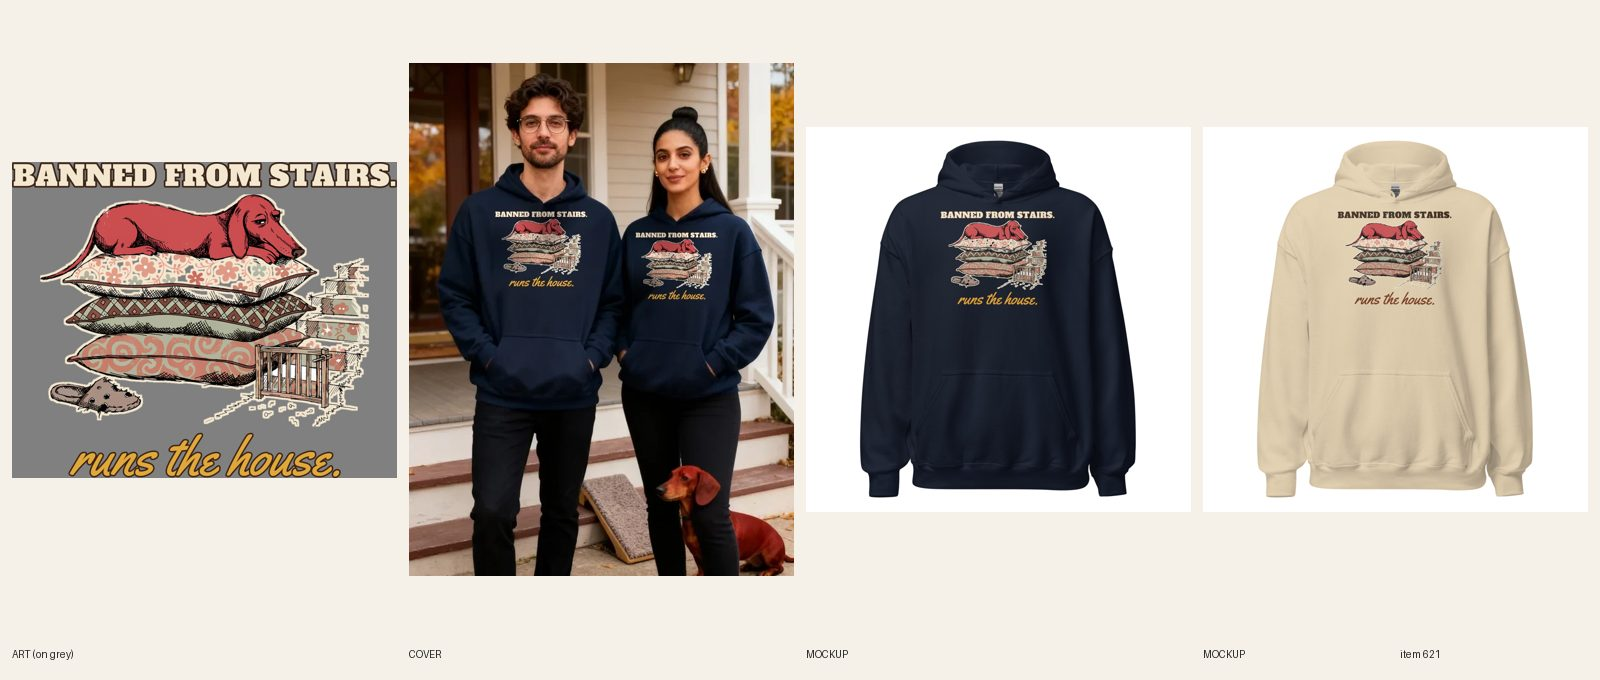
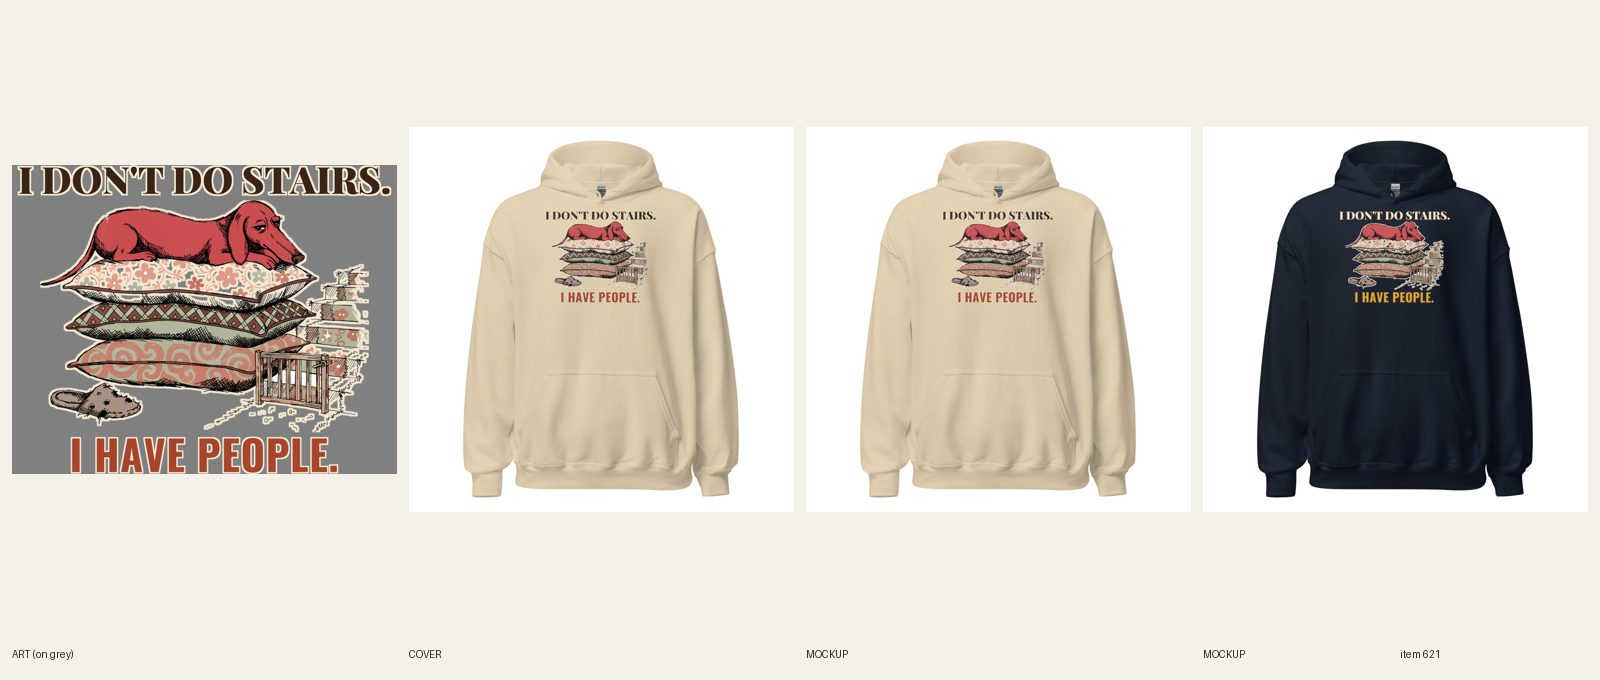
[C] review 621 (redo)
Claude-Session: https://claude.ai/code/session_01CCHcDj8LcJJ8qUPtKE3cvn

diff --git a/designs/c621/make.py b/designs/c621/make.py
@@ -1,0 +1,36 @@
+from PIL import Image, ImageDraw, ImageFont, ImageFilter
+FD='designs/fonts/'
+RED=(196,52,44,255); BROWN=(59,42,29,255); RUST=(168,69,44,255); MUST=(232,168,46,255); CREAM=(246,236,214,255); BROWN=(58,36,24,255)
+def line(text,font,wfrac,W,fill,key,kw=31,track=0,var=None):
+    def mk(sz):
+        f=ImageFont.truetype(FD+font,sz)
+        if var: f.set_variation_by_axes(var)
+        return f
+    f=mk(800); adv=[f.getlength(c) for c in text]
+    tot=sum(adv)+track*(len(text)-1); size=int(800*W*wfrac/tot)
+    f=mk(size); adv=[f.getlength(c) for c in text]; tr=int(track*size/800)
+    asc,desc=f.getmetrics(); tot=int(sum(adv)+tr*(len(text)-1))
+    pad=80; im=Image.new('RGBA',(tot+2*pad,asc+desc+2*pad),(0,0,0,0))
+    def draw(layer,col):
+        d=ImageDraw.Draw(layer); x=pad
+        for c,a in zip(text,adv): d.text((x,pad),c,font=f,fill=col); x+=a+tr
+    k=Image.new('L',im.size,0); d=ImageDraw.Draw(k); x=pad
+    for c,a in zip(text,adv): d.text((x,pad),c,font=f,fill=255); x+=a+tr
+    k=k.filter(ImageFilter.MaxFilter(kw)); im.paste(Image.new('RGBA',im.size,key),(0,0),k)
+    draw(im,fill)
+    return im.crop(im.getbbox())
+def build(tag,src,c1,k1,c2,k2,bgc):
+    im=Image.open('docs/print-files/'+src).convert('RGBA'); W=im.width
+    art=im.crop((0,277,W,2262))
+    h1=line("I DON'T DO STAIRS.",'PlayfairDisplay[wght].ttf',0.97,W,c1,k1,kw=29,var=[900])
+    h2=line("I HAVE PEOPLE.",'Oswald[wght].ttf',0.70,W,c2,k2,kw=25,track=14,var=[700])
+    print(tag,'h1',h1.size,'h2',h2.size,'ratio h2/h1',h2.height/h1.height)
+    g=36; H=h1.height+g+art.height+g+h2.height
+    out=Image.new('RGBA',(W,H),(0,0,0,0))
+    out.alpha_composite(h1,((W-h1.width)//2,0)); y=h1.height+g
+    out.alpha_composite(art,(0,y)); y+=art.height+g
+    out.alpha_composite(h2,((W-h2.width)//2,y))
+    out.save(f'docs/print-files/621-v2-stairs-{tag}.png'); print(out.size,H/W)
+    bg=Image.new('RGBA',out.size,bgc); bg.alpha_composite(out); bg.convert('RGB').resize((600,int(600*H/W))).save(f'designs/c621/prev_{tag}.png')
+build('sand','621-banned-from-stairs-dark-ink.png',BROWN,CREAM,RUST,CREAM,(214,196,160,255))
+build('navy','621-banned-from-stairs-light-ink.png',CREAM,BROWN,MUST,BROWN,(38,50,88,255))

diff --git a/docs/pipeline/621-dachshund-hoodie-banned-from-stairs.md b/docs/pipeline/621-dachshund-hoodie-banned-from-stairs.md
@@ -1,4 +1,4 @@
-status: REDO
+status: REVIEW
 shopify: gid://shopify/Product/15364929880368
 lane: C
 type: twin
@@ -29,3 +29,4 @@ kd: 26
 - 2026-10-18 08:33 UTC builder [C]: Printful relink verified 12/12 (6 Sand on dark-ink 1088766983, 6 Navy on 1088719431, back logo on all); REVIEW.
 - 2026-10-18 09:22 UTC director: LIVE. approved from docs/review/621.jpg (Sand dark-ink file, Navy light-ink; couple cover with the dachshund clear of both prints). ACTIVE + Online Store/Headless/Google & YouTube, audit --handle PASS (0 warn).
 - 2026-10-18 17:22 UTC director: QUALITY RESET grade C (new line + type), REDO. The product stays ACTIVE (same handle, URL, title keyword). 1. Line (R3.12, quality-reset 'Lines'): "Banned From Stairs. / runs the house.": Dachshund insider + mild aside; short headline, thin script second line on navy. Write 5 candidates, keep the one a stranger laughs at in 3 seconds without backstory; kill lines that only describe the picture; if none of the 5 is funny, PARK it. 2. Quality reset type bar (docs/backlog/quality-reset.md, 'The new bar'): headline at least 90% of the art width, heavy, colors pulled from the art; second line at least 45% of the headline's height, never a thin script on a dark or mid garment; use the lettering as a shape (arch, stacked lockup, words breaking into the art), not a plain bar above and a script line below; no font used on more than 1 in 6 of the last 30 designs. 3. Keep the art if it carries the new line, else one new illustration (R4/R5). New print means a new cover per R6.10, copy line one rewritten for the new joke (R8.3), and a fresh review sheet (R7.7). While quality-reset.md says PAUSED, only lane A builds, and only the samples step 2 names.
+- 2026-10-20 11:40 UTC builder [C]: REDO new line + type (grade C). 5 candidates: "I DON'T DO STAIRS. / I HAVE PEOPLE." (kept: the smug dachshund's reason, funny without any dog backstory), "BANNED FROM STAIRS. runs the house." (old), "STAIRS ARE FOR THE TALL.", "THE GATE IS A SUGGESTION", "CARRY ME. I'M TIRED.". Same dachshund/pillows art. I DON'T DO STAIRS. in Playfair Display Black 97% of the art width; I HAVE PEOPLE. in Oswald Bold 70% width (120% of the headline's height). Light-file (R5.3.8): Sand file 1090184058 has the headline dark brown with cream keyline, second line rust; Navy file 1090184101 has the headline cream with a brown keyline, second line mustard (docs/print-files/621-v2-stairs-sand.png / -navy.png); logged: light file Sand on file 1090184058, headline fill dark brown. Print 3289 x 2643, FW 1650 TOP 0 (wide print, about 1,330 px high, well above the pouch), 12/12 relinked per color. 2 fronts replaced in place, read at phone size. Copy, FAQ and SEO rewritten for the new line. Plain product shot. fal $0.

diff --git a/docs/intake-log.md b/docs/intake-log.md
@@ -34,6 +34,7 @@ RUNNING lane B since 2026-10-20 03:28 UTC
 2026-10-20 03:41 UTC — [B] Builder run: redid #362 Women's Baseball hoodie (line + type: MISSED THE PLAY. / SEEDS WERE GOOD., same art, Bowlby One, Navy + Sand light files, 12/12 synced). REVIEW. fal $0.
 2026-10-20 05:26 UTC — [E] Builder run: redid #388 Women's Christmas crewneck (line + type: SORRY, I'M BOOKED TILL JANUARY., new party-calendar art, Navy + Sand files, 12/12 synced, copy updated, plain product shot). REVIEW. fal $0.08.
 RUNNING lane C since 2026-10-20 03:23 UTC
+2026-10-20 11:42 UTC — [C] Builder run: redid #621 Unisex Dachshund hoodie (new line + type: I DON'T DO STAIRS. / I HAVE PEOPLE., Playfair Black + Oswald Bold, same pillows art, Sand file 1090184058 + Navy file 1090184101, FW 1650 TOP 0, 12/12 relinked, 2 fronts replaced in place, copy + SEO updated, plain product shot). REVIEW. fal $0.
 2026-10-20 11:07 UTC — [C] Builder run: redid #436 Unisex Anime maneki neko heavyweight hoodie (new line + type: THAT'S NOT A WAVE. / IT'S A NO., Big Shoulders + Bowlby, same cat art, Sandstone file 1090180837 + Storm Blue file 1090180889, FW 1600 TOP 20, 14/14 relinked, 2 fronts replaced in place, copy + SEO updated, plain product shot). REVIEW. fal $0.
 2026-10-20 10:32 UTC — [C] Builder run: redid #620 Women's Christmas capybara zip hoodie (new line + type: I'M NOT STUCK. / I'M DECORATED., Fraunces Black + Bevan, same lights art, back file 1090177287, 12/12 relinked, 2 back mockups replaced in place, copy + SEO updated, plain product shot). REVIEW. fal $0.
 2026-10-20 09:57 UTC — [C] Builder run: redid #563 Women's Gigi hoodie (type only: GIGI Alfa Slab + BECAUSE GRANDMA SOUNDED OLD. Oswald Bold, same handbag art, file 1090174683, FW 1500 TOP 0, 12/12 relinked, 2 fronts replaced in place, copy updated, plain product shot). REVIEW. fal $0.
